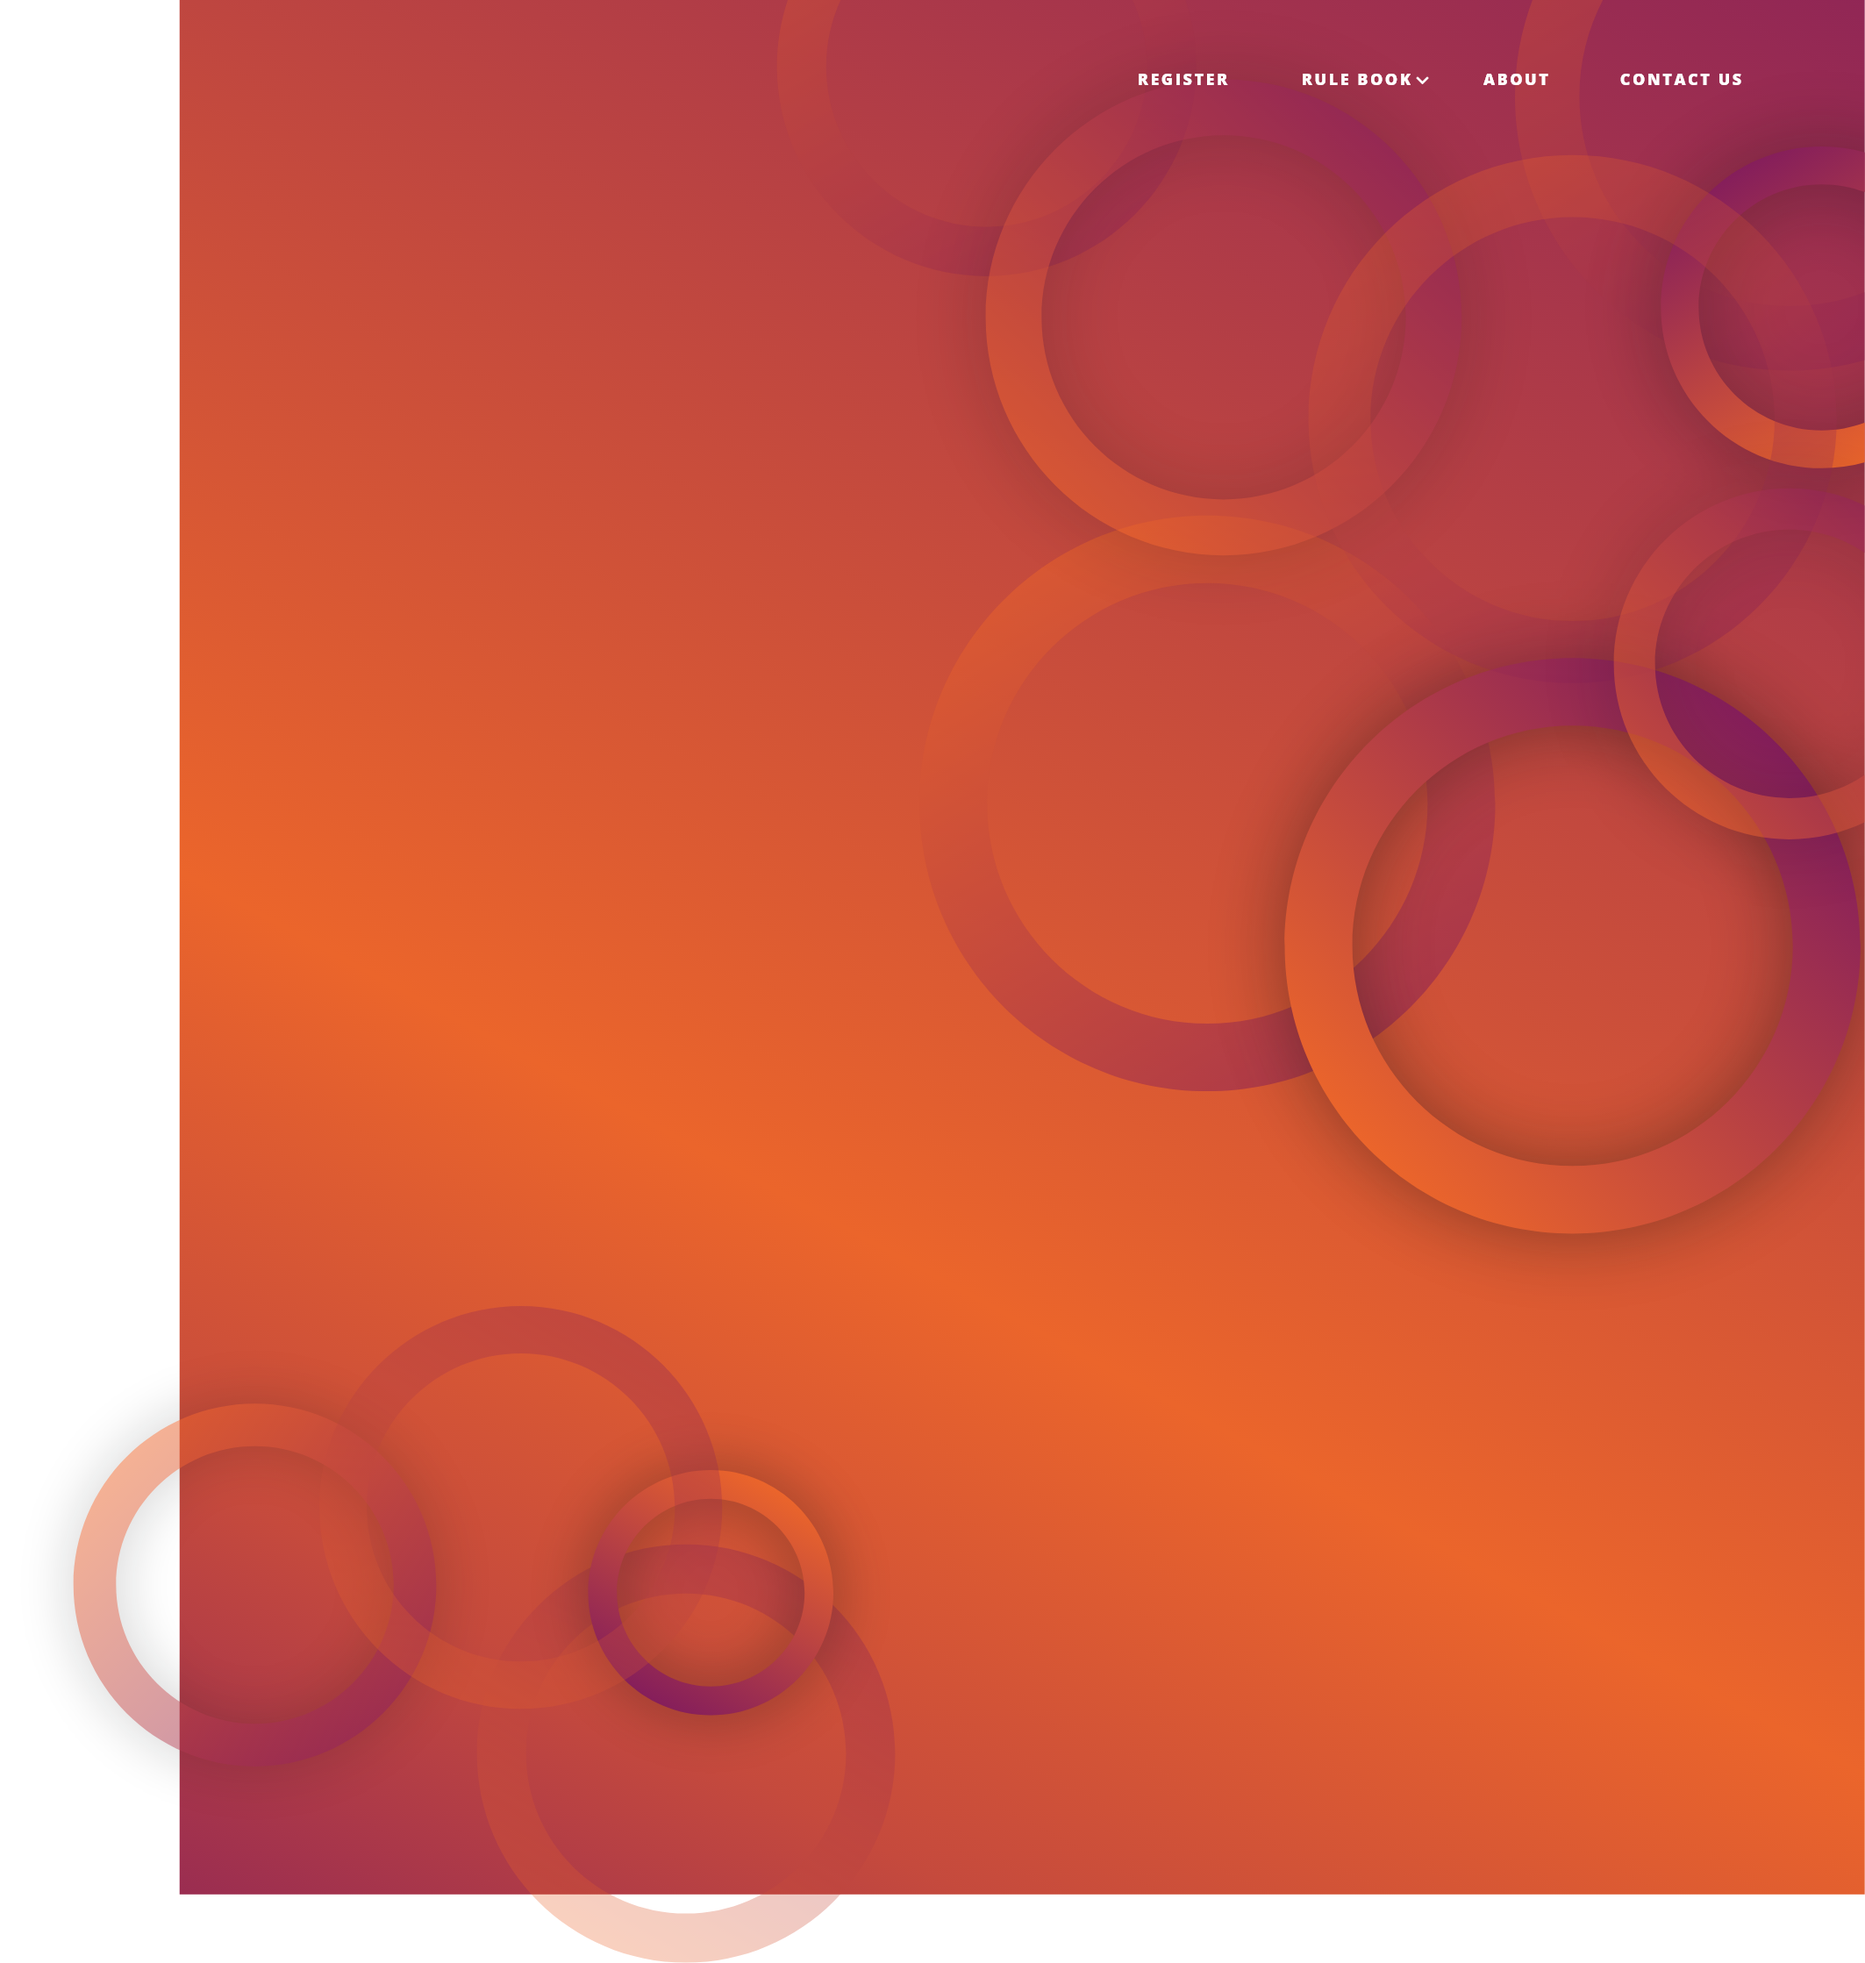
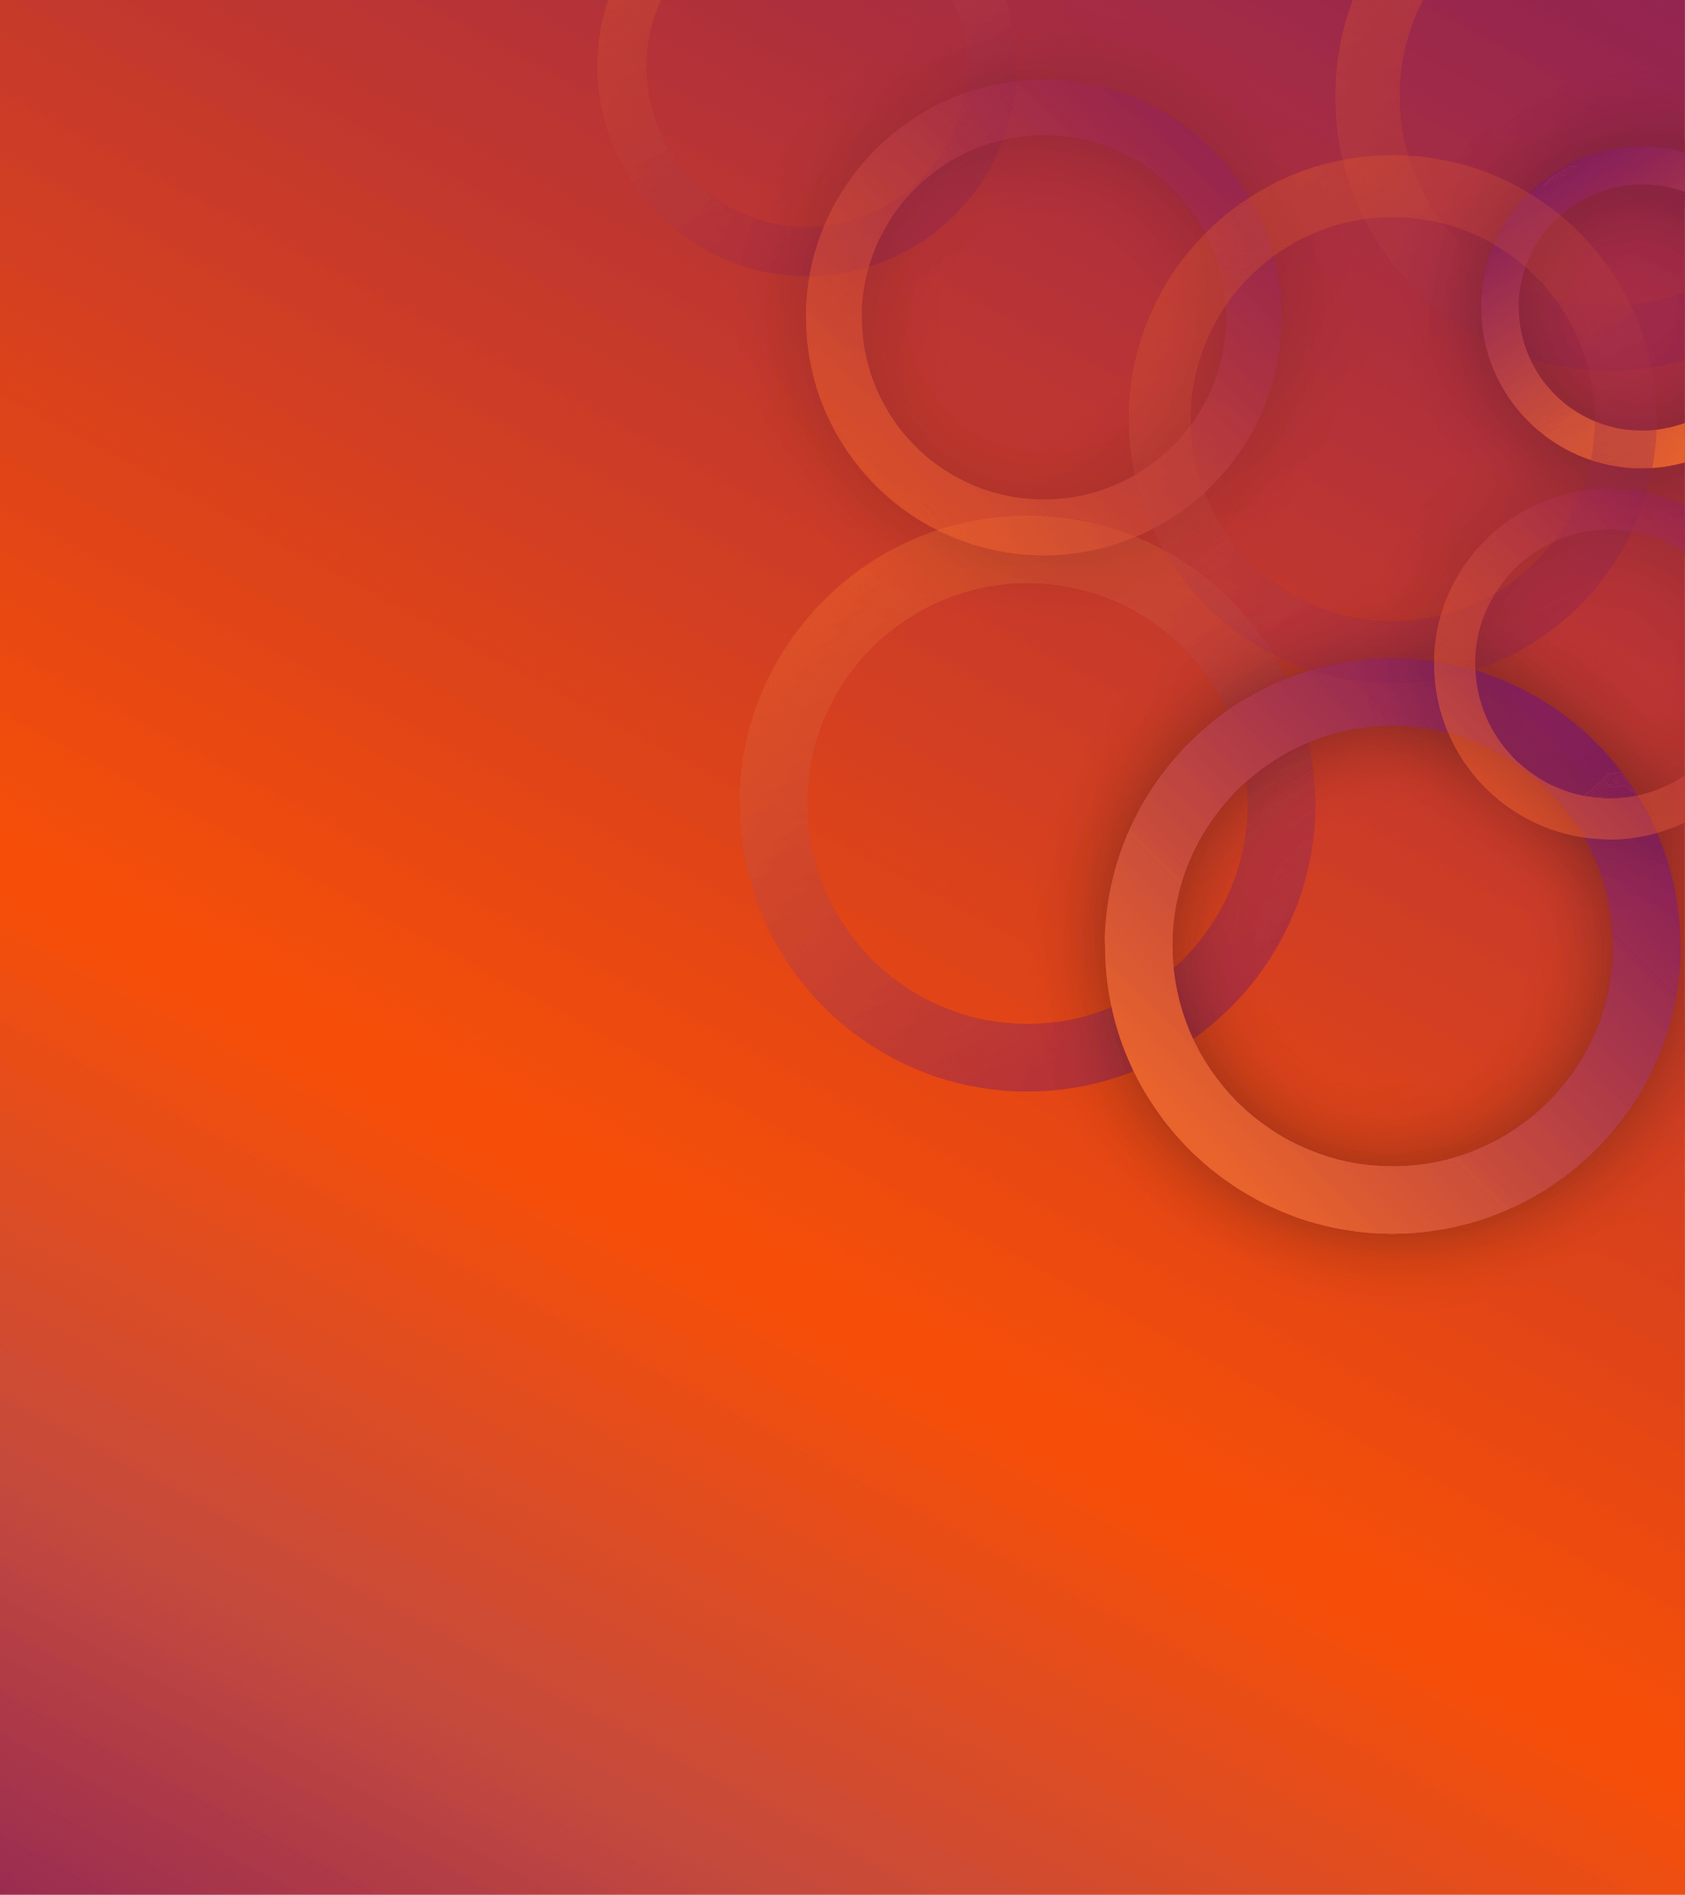
styles updated

diff --git a/src/Pages/RandomPublicPage/Container/PublicLandingPage/styles.module.css b/src/Pages/RandomPublicPage/Container/PublicLandingPage/styles.module.css
@@ -23,7 +23,7 @@
 .menuWrapper > li:hover {
     margin: 0 10px;
     font-family: 'OpenSans';
-    font-size: 18px;
+    font-size: 1.125rem;
     font-weight: 800;
     font-stretch: normal;
     font-style: normal;
@@ -36,7 +36,8 @@
 
 .basicLayout {
     background: none;
-    height: 100%;
+	height: 100%;
+	overflow: auto;
 }
 .mainContainer .registerBtn,
 .mainContainer .registerBtn:hover {
@@ -62,7 +63,7 @@
     height: 100%;
     background-image: url('../../../../images/Background.png');
     background-repeat: no-repeat;
-    background-position: 50% 50%;
+    background-position: 50% 30%;
 }
 .leftContent {
     width: 60%;
@@ -90,7 +91,7 @@
 }
 .siteLayout .leftContent > h4 {
     font-family: OpenSans;
-    font-size: 2.37rem;
+    font-size: 2rem;
     font-weight: 600;
     font-stretch: normal;
     font-style: normal;
@@ -129,12 +130,43 @@
     background-size: contain;
     margin-left: 40px;
 }
-.handImg {
-    /* width: 248px;
-    height: 50px;
+.registerBtnWrapper{
+	position: relative;
+}
+.handImg,.handImg2{
+	width: 230px;
+    height: 90px;
     background: url('../../../../images/3dHand1.png');
     background-repeat: no-repeat;
-    background-size: contain; */
+    display: inline-block;
+    background-position: left;
+    background-size: 140px 240px;
+    position: relative;
+    top: 18px;
+	left: 50px;
+	transition: ease-in;
+	vertical-align: bottom;
+	animation: slide1 1s forwards infinite;
+    animation-delay: 1s;
+}
+
+@keyframes slide1 {
+	50% { left: 10px;}
+	100% {left: 50px;}
+}
+.handImg2{
+	background-image: url('../../../../images/3dHand2.png');
+	background-size: 240px 146px;
+    height: 150px;
+    top: 20px;
+    vertical-align: text-top;
+    position: absolute;
+	left: calc(50% + 130px);
+	animation: slide2 1s infinite;
+}
+@keyframes slide2 {
+	50% { left: calc(50% + 110px);}
+	100% { left: calc(50% + 130px);}
 }
 .clearAll {
     clear: both;
@@ -155,18 +187,28 @@
     display: none;
 }
 .mainContainer {
-    height: calc(100% - 64px);
-    overflow: auto;
+    /* height: calc(100% - 64px);
+    overflow: auto; */
 }
 .registerBtnWrapper {
     text-align: center;
     padding-bottom: 150px;
 }
 .regFormModal {
-    background: linear-gradient(121deg, rgb(241 198 213 / 0.8) 5%, rgb(242 58 0 / 0.8) 96%);
+    background: url('../../../../images/formBackground.svg');
     width: 70% !important;
 }
-
+.downArrowIcon{
+	background-repeat: no-repeat;
+	width: 12px;
+    height: 12px;
+    background: transparent url('../../../../images/chevronDown.svg') 0 0 no-repeat padding-box;
+    background-size: contain;
+	background-position: 50% 50%;
+	display: inline-block;
+	float: right;
+    margin-top: 2px;
+}
 /* For Tablets */
 @media only screen and (max-width:1300px) {
     .menuWrapper {
@@ -176,7 +218,9 @@
         display: block;
     }
     .rightContent .img {
-        margin: 50px auto;
+		margin: 50px auto;
+		width: 350px;
+		height: 350px;
     }
     .leftContent,
     .rightContent {
@@ -217,18 +261,17 @@
     }
     .siteLayout .leftContent p {
         font-family: OpenSans;
-        font-size: 0.875rem;
+        /* font-size: 0.875rem; */
         font-weight: normal;
         font-stretch: normal;
         font-style: normal;
-        line-height: 1.36;
+        line-height: 1.86;
         letter-spacing: normal;
         text-align: left;
         color: #ffffff;
     }
     .siteLayout .leftContent h5 {
         font-family: OpenSans;
-        font-size: 1rem;
         font-weight: bold;
         font-stretch: normal;
         font-style: normal;
@@ -242,7 +285,8 @@
     }
     .sportsListImgWrapper {
         width: 100%;
-        height: 900px;
+		height: 900px;
+		margin-top: 50px;
     }
     .sportsListImgTab {
         background: transparent url('../../../../images/gamesTab.svg') 0 0 no-repeat padding-box;
@@ -250,5 +294,8 @@
         background-position: 50% 50%;
         background-repeat: no-repeat;
         height: 100%;
-    }
+	}
+	.handImg,.handImg2{
+		display: none;
+	}
 }

diff --git a/src/Pages/RandomPublicPage/Container/PublicLandingPage/LandingPageContent.js b/src/Pages/RandomPublicPage/Container/PublicLandingPage/LandingPageContent.js
@@ -32,7 +32,6 @@ class LandingPageContent extends React.Component {
                     {/* Main content-Right */}
                     <div className={styles.rightContent}>
                         <div className={styles.img}/>
-                        <div className={styles.handImg}/>
                     </div>
                     {/* Main content-Left */}
                     <div className={styles.leftContent}>
@@ -49,6 +48,7 @@ class LandingPageContent extends React.Component {
                             shape="round"
                             className={styles.registerBtn}
 							onClick={() => this.showModal(true)}>Register Now</Button>
+						<span className={styles.handImg}/>
                     </div>
                     <div className={'clearAll'}/>
                 </Content>
@@ -61,6 +61,7 @@ class LandingPageContent extends React.Component {
                             shape="round"
                             className={styles.registerBtn}
                             onClick={() => this.showModal(true)}>Register Now</Button>
+						<span className={styles.handImg2}/>
                     </div>
                 </div>
 

diff --git a/src/Pages/RegisterPublicPage/Container/PublicHeader/index.js b/src/Pages/RegisterPublicPage/Container/PublicHeader/index.js
@@ -2,10 +2,6 @@ import React, {Component} from 'react';
 import {connect} from 'react-redux';
 import {withRouter} from 'react-router-dom';
 import styles from './styles.module.css';
-import {
-	AppstoreOutlined,
-	LinkOutlined,
-  } from '@ant-design/icons';
 import {Layout, Menu, Button} from 'antd';
 
 const {Header, Content, Footer} = Layout;
@@ -33,7 +29,7 @@ class PublicHeader extends React.Component {
                         <Menu theme="dark" mode="horizontal" defaultSelectedKeys={['2']} className={styles.menuWrapper}>
                             <Menu.Item key="1">HOME</Menu.Item>
                             <Menu.Item key="2">Register</Menu.Item>
-                            <SubMenu key="sub2" icon={< AppstoreOutlined />} title="Game Rules">
+                            <SubMenu key="sub2" title="Rule Book" icon={<span className={styles.downArrowIcon}/>} >
                                 <Menu.Item key="7">CRICKET</Menu.Item>
                                 <Menu.Item key="8">FOOTBALL</Menu.Item>
                                 <Menu.Item key="9">VOLLEY BALL</Menu.Item>

diff --git a/src/Pages/RegisterPublicPage/Container/RegisterForm/index.js b/src/Pages/RegisterPublicPage/Container/RegisterForm/index.js
@@ -149,7 +149,6 @@ const RegistrationForm = () => {
                                 }
                             ]}>
                                 <Input
-                                    addonBefore={prefixSelector}
                                     style={{
                                     width: '100%'
                                 }}/>
@@ -236,7 +235,7 @@ const RegistrationForm = () => {
                 <TabPane tab="Inter-School" key="1">
                     <FormContainer/>
                 </TabPane>
-                <TabPane tab="Community" key="2">
+                <TabPane tab="Community" disabled key="2">
                     Content of Community
                 </TabPane>
             </Tabs>

diff --git a/src/Pages/RandomPublicPage/Container/PublicLandingPage/index.js b/src/Pages/RandomPublicPage/Container/PublicLandingPage/index.js
@@ -33,7 +33,7 @@ class PublicLandingPage extends React.Component {
                         <div className={styles.logo}/>
                         <Menu theme="dark" mode="horizontal" defaultSelectedKeys={[]} className={styles.menuWrapper}>
                             <Menu.Item key="1">REGISTER</Menu.Item>
-                            <SubMenu key="sub2" icon={< AppstoreOutlined />} title="RULE BOOK">
+							<SubMenu key="sub2" icon={<span className={styles.downArrowIcon}/>} title="RULE BOOK">
 								<Menu.Item key="7">CRICKET</Menu.Item>
                                 <Menu.Item key="8">FOOTBALL</Menu.Item>
                                 <Menu.Item key="9">VOLLEY BALL</Menu.Item>

diff --git a/src/Pages/RegisterPublicPage/Container/PublicHeader/styles.module.css b/src/Pages/RegisterPublicPage/Container/PublicHeader/styles.module.css
@@ -29,3 +29,14 @@
     right: 40%;
     bottom: 40%;
 }
+.downArrowIcon{
+	background-repeat: no-repeat;
+    width: 100%;
+    height: 450px;
+    background: transparent url('../../../../images/chevronDown.svg') 0 0 no-repeat padding-box;
+	background-size: contain;
+    background-position: 50% 50%;
+    display: inline-block;
+    float: right;
+    margin-top: 4px;
+}

diff --git a/src/Pages/RegisterPublicPage/Container/RegisterForm/styles.module.css b/src/Pages/RegisterPublicPage/Container/RegisterForm/styles.module.css
@@ -31,3 +31,13 @@
 	background-color: #851e5b;
 	border: none;
 }
+
+/* For Tablets */
+@media only screen and (max-width:1300px) {
+	.formGroup{
+		width: 100%;
+	}
+	.sportsCheckBtn{
+		font-size: 0.6875rem;
+	}
+}
